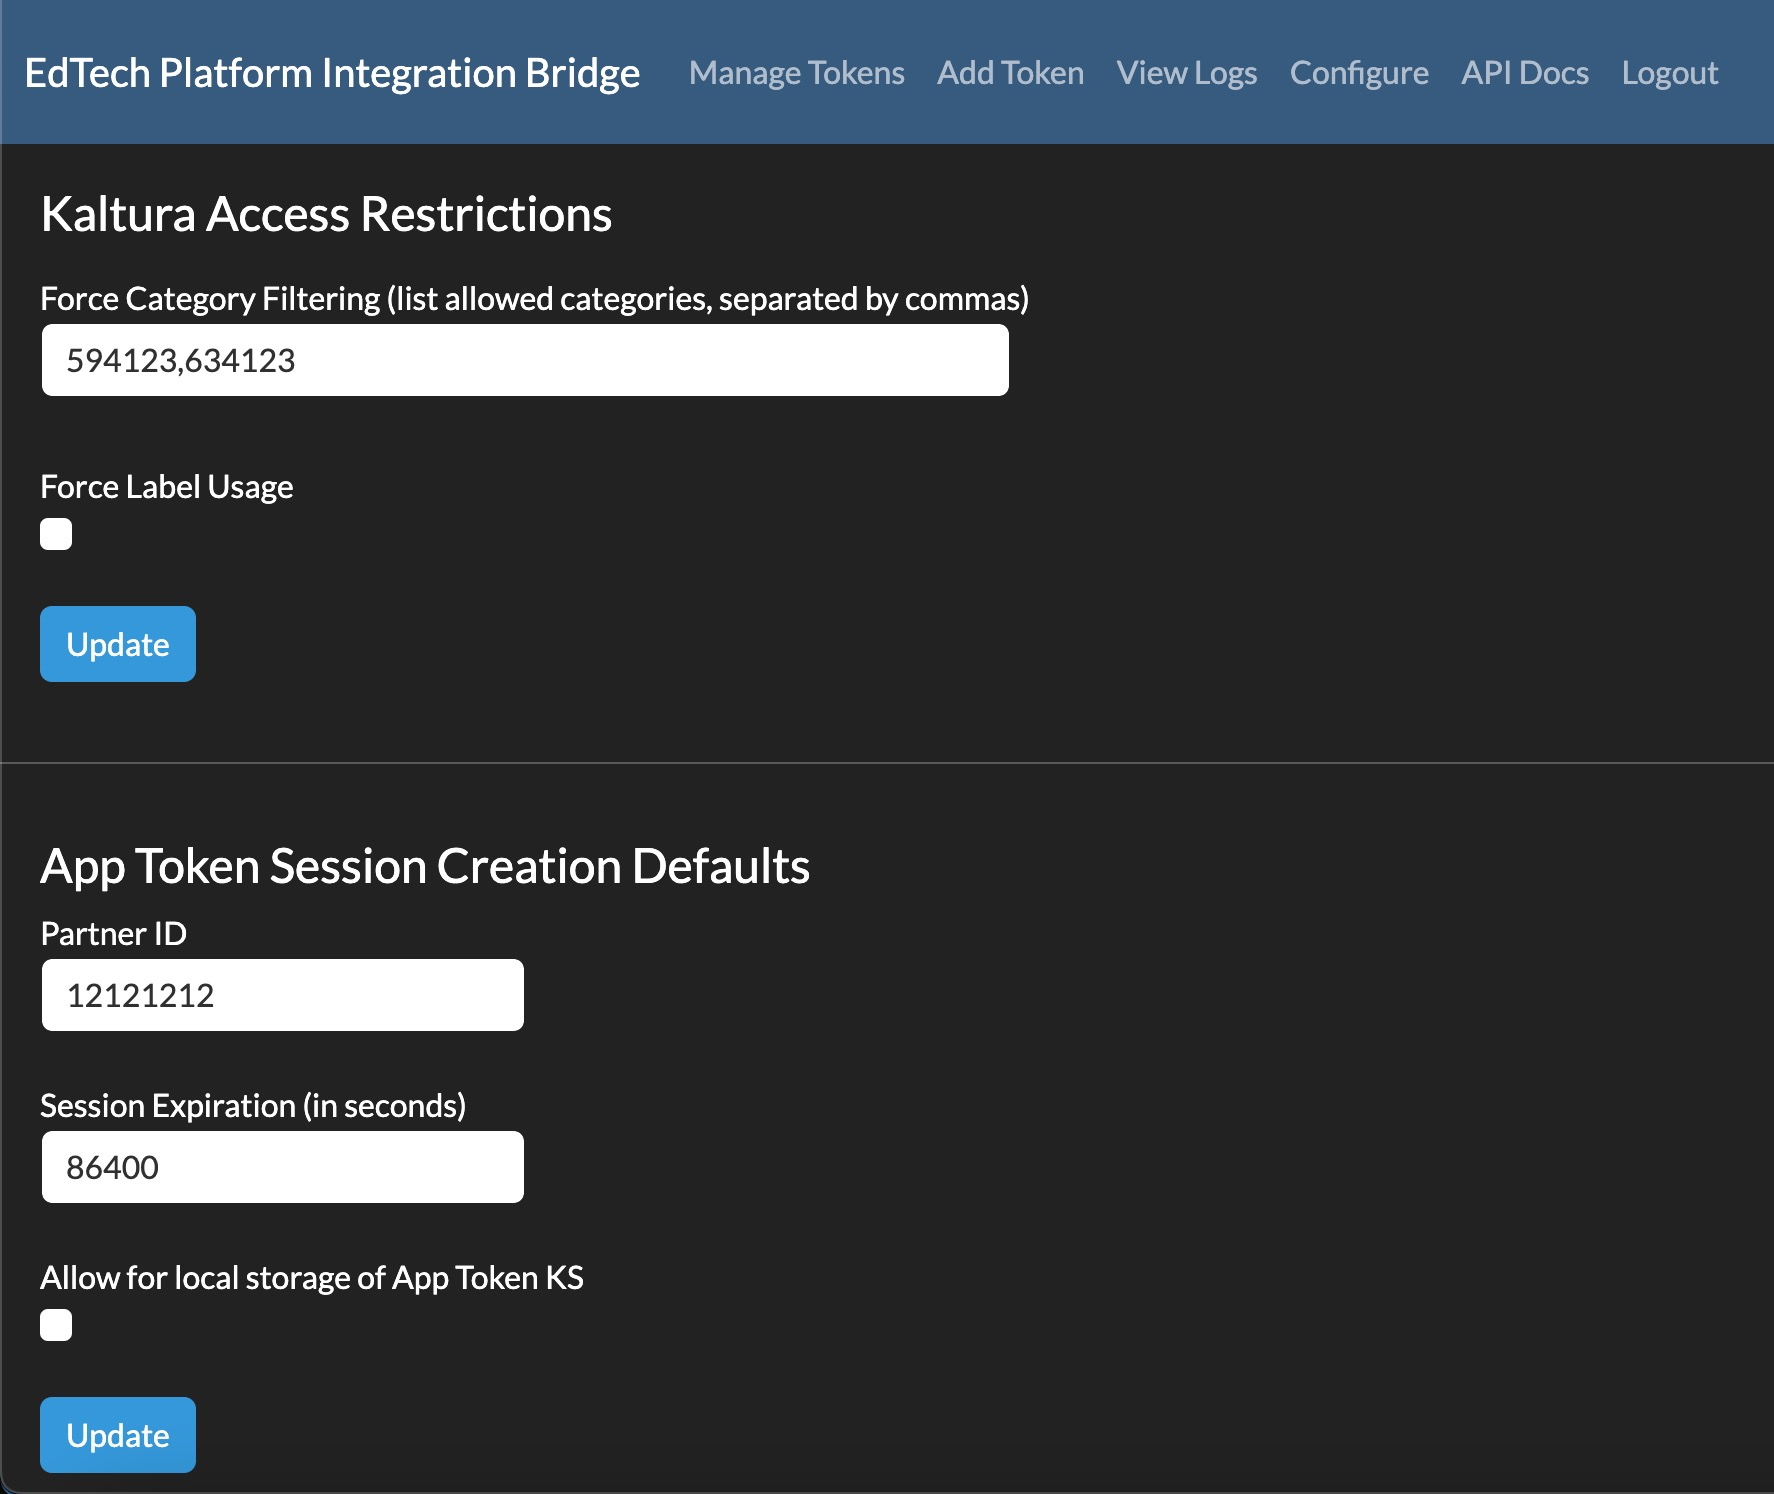
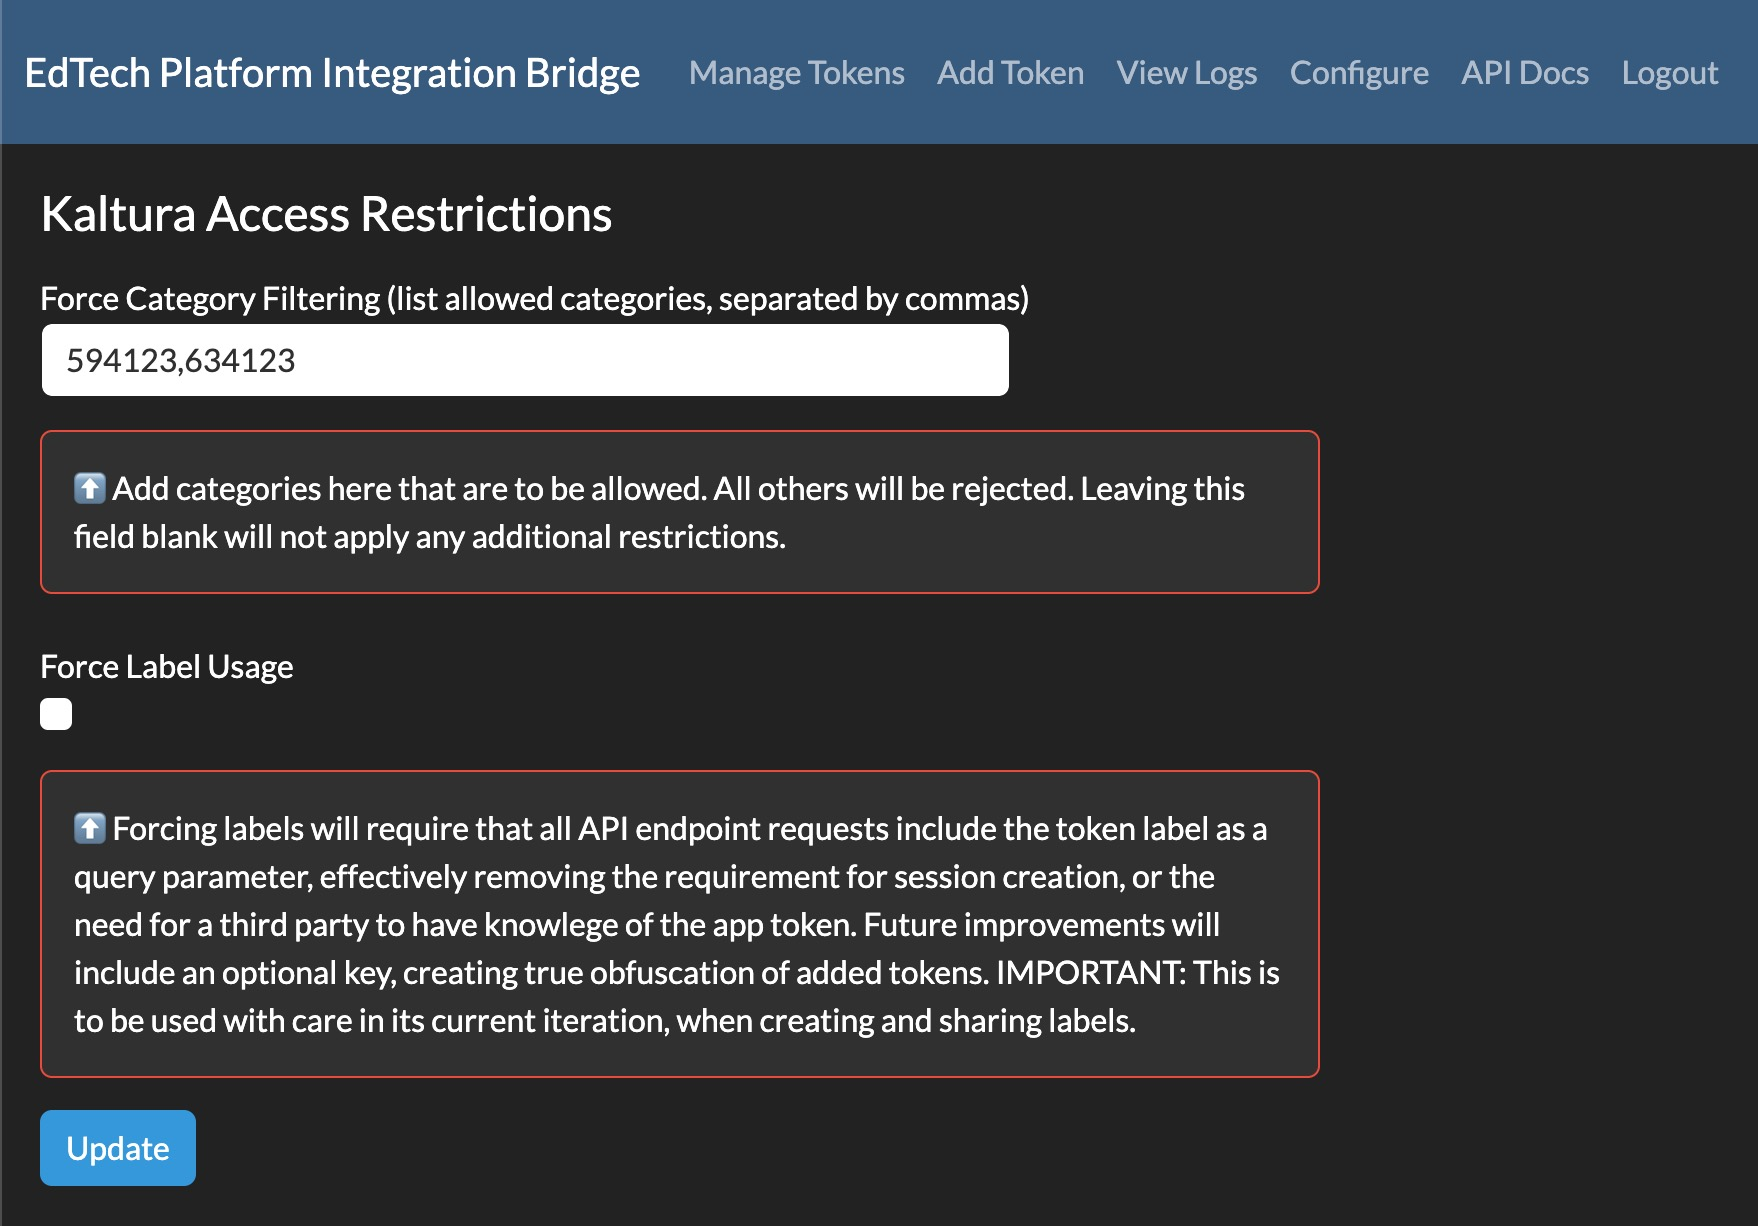
Updating administration config docs

Changed region(s): [[0.0, 0.031, 1.0, 0.4959], [0.0, 0.5269, 0.7372, 1.0]]

diff --git a/docs/administration.rst b/docs/administration.rst
@@ -140,23 +140,47 @@ Logged Events:
 Configuration Page
 ------------------
 
+Kaltura Category Restrictions
+^^^^^^^^^^^^^^^^^^^^^^^^^^^^^
+
 .. figure:: img/config-kaltura.jpg
    :alt: Kaltura Configuration Options
    :align: center
 
    Configuration Page - Kaltura Restrictions
 
-Force Category Filtering can include a restrictive comma-delimited listing of categories (alphanumeric) to be allowed
+**Force Category Filtering** can include a restrictive comma-delimited listing of categories (alphanumeric) to be allowed
 when external applications (vendors, institutional, etc) are requesting data about entries, users, captions, etc - leveraging
 Kaltura APIs. All requests to APIs that state a category not listed here will be rejected.
 
 Leaving this field blank will not apply additional restrictions on categories, effectively disabling this option.
 
-Forcing labels will require that all API endpoint requests include the token label as a query parameter, 
+**Force labels** will require that all API endpoint requests include the token label as a query parameter, 
 effectively removing the requirement for session creation, or the need for a third party to have knowlege of the app token. 
-Future improvements will include an optional key, creating true obfuscation of added tokens. 
+Future improvements will include an optional key, creating true obfuscation of added tokens.
 
-IMPORTANT: This is to be used with care in its current iteration, when creating and sharing labels.
+IMPORTANT: Force labels is to be used with care in its current iteration.
+
+Configure App Token Session Creation
+^^^^^^^^^^^^^^^^^^^^^^^^^^^^^^^^^^^^
+
+.. figure:: img/config-sessions.jpg
+   :alt: Kaltura Configuration Options
+   :align: center
+
+   Configuration Page - Kaltura Restrictions
+
+**Partner ID** is required for the creation of temporary "widget" sessions during the creation of app token sessions.
+
+**Session Expiration** can be used to override the default session on new sessions created by developer app tokens.
+
+Select to temporarily store session tokens created when calling session creation endpoints. 
+Currently, this depends on selecting force labels (above). 
+When selected, an app token KS will be stored in the database for subsequent use and efficiency. 
+With each API request, an expiration check is performed. A new KS will then be created and the expired KS will be removed.
+
+UI Customization
+^^^^^^^^^^^^^^^^
 
 .. figure:: img/config-ui-custom.jpg
    :alt: User Interface Customizations
